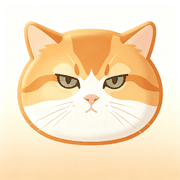
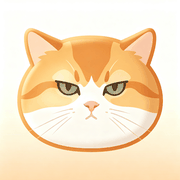
fix(brand): 图标按内容包围盒垂直居中，修正猫头偏上
原图上留白 121 / 下留白 196（内容中心 474），改为整体下移 38px 后 159/158，
内容中心落在 (512,512)；icon.png / icon-192 / apple-touch / favicon 同步重出

Changed region(s): [[0.0833, 0.1111, 0.9167, 0.8611]]

diff --git a/AGENTS.md b/AGENTS.md
@@ -225,7 +225,7 @@ HTTP_PROXY= HTTPS_PROXY= http_proxy= https_proxy= npx --yes wrangler@3.114.17 pa
 - **添加物品表单**（`inventory/item-form.tsx`）：APK 折叠态是居中加粗标题、**无返回 / 无右上确认**，底部一个全宽橙色「确定添加」按钮（名称为空时 disabled）；`PopupLayout` 用 `hideBack`、不传 `right`，提交逻辑抽成 `submit()`。抽屉 `dialogModalClose: true`，点遮罩即可取消。其它表单的标题栏不受影响。
 - **中文字重**：Windows 中文字体只有 400/700 两档（400≡500、600≡700），`dp-text-medium` 只保留 `font-weight:500`；**禁用 `-webkit-text-stroke` 补中黑**（笔画边缘会叠出灰边/双线重影）。iOS PWA 命中 `PingFang SC` Medium，天然更接近 APK 的中黑；金额数字保持 `font-bold`。
 - **DPR=1 的亚像素坑**：日历圆环必须整数环宽 31/27/23px（橙环、白环各 2px）；1.5px 环宽会被取整成「1px 实色 + 1px 半透明」，左上半圈发淡、白环断开。任何 <2px 的边框/环宽都要在实景截图里按圆周角度取色验证，不能只看 DOM 尺寸。
-- **品牌图标 / 默认头像（用户明确：只换 App 图标和默认头像，首页吉祥物一律不动）**：`public/icon.png`（512，同时是「关于Cent」页 80px logo 与 `api/endpoints/{offline,s3,web-dav}` 里 `avatar_url` 的默认头像）、`public/icon-192.png`（manifest 192）、`public/apple-touch-icon.png`（180，iOS 主屏）、`public/favicon.ico`（16/32/48，单独收紧到猫头，否则 16px 下糊成一块）。素材为 AI 生成的橘猫图（1024），右下角「豆包AI生成」水印用「同一行左侧背景横向搬移 + 逐列色差线性校正 + 12px 羽化」消除（不要用高斯涂抹，会在平整奶油渐变上留下暗斑），母版在 `.playwright-cli/watermark/icon-no-watermark.png`（gitignored）。三张 png 统一 256 色量化（icon.png 512≈104KB、192≈20KB、180≈18KB），避免全量预缓存把体积顶上去。`index.html` 的 `apple-touch-icon(-precomposed)` 原本指向 `s3.bmp.ovh` 远端占位图，已改为本地 `/apple-touch-icon.png`；manifest `icons` 指向 `icon-192.png` / `icon.png`（512），声明尺寸与文件实际像素必须一致。**`src/assets/mascots/*`（家小满小暖/小吉/小雨/小智）与首页插画不要替换成猫头图标**。
+- **品牌图标 / 默认头像（用户明确：只换 App 图标和默认头像，首页吉祥物一律不动）**：`public/icon.png`（512，同时是「关于Cent」页 80px logo 与 `api/endpoints/{offline,s3,web-dav}` 里 `avatar_url` 的默认头像）、`public/icon-192.png`（manifest 192）、`public/apple-touch-icon.png`（180，iOS 主屏）、`public/favicon.ico`（16/32/48，单独收紧到猫头，否则 16px 下糊成一块）。素材为 AI 生成的橘猫图（1024），右下角「豆包AI生成」水印用「同一行左侧背景横向搬移 + 逐列色差线性校正 + 12px 羽化」消除（不要用高斯涂抹，会在平整奶油渐变上留下暗斑），母版在 `.playwright-cli/watermark/icon-no-watermark.png`（gitignored）。三张 png 统一 256 色量化（icon.png 512≈104KB、192≈20KB、180≈18KB），避免全量预缓存把体积顶上去。`index.html` 的 `apple-touch-icon(-precomposed)` 原本指向 `s3.bmp.ovh` 远端占位图，已改为本地 `/apple-touch-icon.png`；manifest `icons` 指向 `icon-192.png` / `icon.png`（512），声明尺寸与文件实际像素必须一致。**`src/assets/mascots/*`（家小满小暖/小吉/小雨/小智）与首页插画不要替换成猫头图标**。原图猫头**偏上**（上留白 121px / 下留白 196px，内容中心 y=474 而非 511.5），必须按**内容包围盒重新居中**后再出图：内容下移 38px、顶部空出的 38 行用「上邻 38 行垂直镜像」补齐（背景是近似纯色竖向渐变，镜接缝不可见），改完实测上留白 159 / 下留白 158、左右 98/97、内容中心 (512,512)；居中母版 `.playwright-cli/watermark/icon-centered.png`。**以后换图先跑一遍包围盒居中，不要直接沿用 AI 原图构图。**
 - 注意语义色是反直觉的：支出为绿色、收入为红色，与现有账单卡片一致。
 - 深色模式通过 `.dark` 下的同名令牌覆盖实现，新增颜色必须同时考虑两套值。
 - 安全区统一用 `var(--safe-area-inset-*)` 或项目封装变量，不要在业务组件里直接写 `env(safe-area-inset-*)`。
